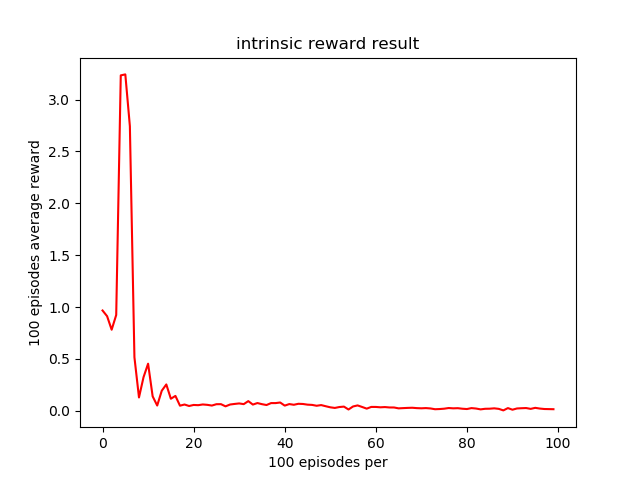
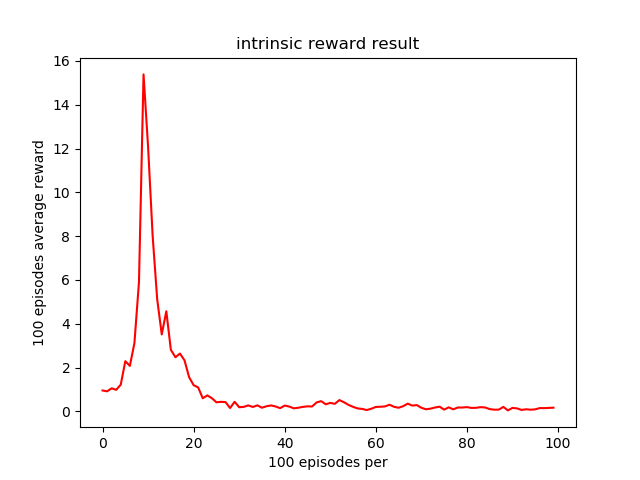
EDIT: fix wrong implementation, ADD: upload Next-state Prediction with RND

diff --git a/02 Next-State Prediction/PPO_Next-state_prediciton_with_RND.py b/02 Next-State Prediction/PPO_Next-state_prediciton_with_RND.py
@@ -49,7 +49,7 @@ class Critic_network(nn.Module):
 class Predictor_network(nn.Module):
     def __init__(self, obs_size):
         super(Predictor_network, self).__init__()
-        self.fc1 = nn.Linear(obs_size, 64) ## input obs_t+1
+        self.fc1 = nn.Linear(obs_size, 64) # input predictor: action + obs | target: next_obs
         self.fc2 = nn.Linear(64,64)
         self.fc3 = nn.Linear(64,64)
         self.fc4 = nn.Linear(64,1) ## output f(st+1)
@@ -112,15 +112,22 @@ def observation_normalize(observation, obs_std): # In order to normalize observa
     observation = (observation - obs_mean) / obs_std
     return observation
 
-def get_MSE(predictor, target_predictor, next_observation, obs_std):
+def get_MSE(predictor, target_predictor, observation, onehot_action, next_observation, obs_std):
     MSE = torch.nn.MSELoss() # define loss function.
+
+    obs = torch.Tensor(observation_normalize(observation, obs_std))
+    obs = torch.clamp(obs, -5, 5)
     next_obs = torch.Tensor(observation_normalize(next_observation, obs_std)) # normalize observation.
-    next_obs = torch.clamp(next_obs, -5, 5) 
-    f_prime = predictor(next_obs) # predictor
-    f = target_predictor(next_obs) # target predictor (fixed!)
+    next_obs = torch.clamp(next_obs, -5, 5)
+
+    obs_action = torch.cat((obs, onehot_action), -1)
+
+    f_prime = predictor(obs_action) # predictor | input is [obs, onehot_action]
+    f = target_predictor(next_obs) # target predictor (fixed!) | input is [next_obs]
+
     return MSE(f_prime, f.detach())
 
-def train(actor, critic, predictor, target_predictor, trajectories, actor_optimizer, critic_optimizer, predictor_optimizer, T_horizon, batch_size, epoch, obs_std):
+def train(actor, critic, predictor, target_predictor, trajectories, actor_optimizer, critic_optimizer, predictor_optimizer, T_horizon, batch_size, epoch, obs_std, action_size):
     
     c_1 = 1
     c_2 = 0.0 # entropy bonus is zero, because we are using RND which is exploration technique.
@@ -129,28 +136,30 @@ def train(actor, critic, predictor, target_predictor, trajectories, actor_optimi
     trajectories = np.array(trajectories) ##deque인 type을 np.array로 바꿔 줍니다.
     obs = np.vstack(trajectories[:, 0]) 
     action = list(trajectories[:, 1])
-    next_obs = np.vstack(trajectories[:, 2])
-    extrinsic_reward = list(trajectories[:, 3])
-    intrinsic_reward = list(trajectories[:, 4])
-    mask = list(trajectories[:, 5]) 
-    old_policy = np.vstack(trajectories[:, 6])
+    onehot_action = np.vstack(trajectories[:, 2])
+    next_obs = np.vstack(trajectories[:, 3])
+    extrinsic_reward = list(trajectories[:, 4])
+    intrinsic_reward = list(trajectories[:, 5])
+    mask = list(trajectories[:, 6])
+    old_policy = np.vstack(trajectories[:, 7])
     
     obs = torch.Tensor(obs)
     action = torch.LongTensor(action).unsqueeze(1)
+    onehot_action = torch.Tensor(onehot_action)
     next_obs = torch.Tensor(next_obs)
+    extrinsic_reward = torch.Tensor(extrinsic_reward)
+    intrinsic_reward = torch.Tensor(intrinsic_reward)
     mask = torch.Tensor(mask)
     old_policy = torch.Tensor(old_policy)
  
     """ update predictor """
-    predictor_loss = get_MSE(predictor, target_predictor, next_obs.numpy(), obs_std)
+    predictor_loss = get_MSE(predictor, target_predictor, obs.numpy(), onehot_action, next_obs.numpy(), obs_std)
     predictor_optimizer.zero_grad()
     predictor_loss.backward()
     predictor_optimizer.step()
 
     obs_std = torch.std(obs, 0).numpy()
 
-    extrinsic_reward = torch.Tensor(extrinsic_reward)
-    intrinsic_reward = torch.Tensor(intrinsic_reward)
     intrinsic_reward = intrinsic_reward / torch.std(intrinsic_reward) # normalize intrinsic reward.
       
     """ calculate Return and Advantage """
@@ -186,12 +195,12 @@ def train(actor, critic, predictor, target_predictor, trajectories, actor_optimi
             old_policy_b = old_policy[mini_batch].detach()
             
             Advantage_b = Advantage[mini_batch].unsqueeze(1)
-
+                        
             ratio, L_CPI, entropy = surrogate_loss(actor, old_policy_b, Advantage_b, obs_b, action_b)
 
             entropy = entropy.mean()
             clipped_surrogate = torch.clamp(ratio,1-eps,1+eps) * Advantage_b
-            actor_loss = -torch.min(L_CPI.mean(), clipped_surrogate.mean())
+            actor_loss = -torch.min(L_CPI.mean(),clipped_surrogate.mean())
 
             """ total loss """        
             L_CLIP= actor_loss + c_1 * critic_loss - c_2 * entropy
@@ -203,7 +212,7 @@ def train(actor, critic, predictor, target_predictor, trajectories, actor_optimi
             critic_optimizer.zero_grad()
             L_CLIP.backward() 
             critic_optimizer.step()
-        
+
     return obs_std
 
 
@@ -218,7 +227,7 @@ def main():
     action_size = 2
     actor = Actor_network(obs_size, action_size) ## actor 생성
     critic = Critic_network(obs_size) ## critic 생성
-    predictor = Predictor_network(obs_size) ## predictor 생성
+    predictor = Predictor_network(obs_size + action_size) ## predictor 생성
     target_predictor = Predictor_network(obs_size) ## target predictor 생성
 
     learning_rate = 0.0003
@@ -265,41 +274,42 @@ def main():
 
         for i in range(maximum_steps):
             #env.render() ## 게임을 실시간으로 실행하는 명령
-            
+
             action_distribution = actor(torch.Tensor(obs)) ##actor로 부터 action에 대한 softmax distribution을 얻는다.
             action = get_action(action_distribution) ## sampling action.
             old_policy = action_distribution[action] # 실제 선택된 action의 확률 값을 loss 계산을 위해 저장한다.
 
             next_obs, extrinsic_reward, done, info = env.step(action) ## 선택된 가장 높은 action이 다음 step에 들어감.
-            
-            intrinsic_reward = get_MSE(predictor, target_predictor, next_obs, obs_std).item() # || f'(st+1) - f(st+1) ||^2
-        
+            onehot_action = torch.zeros(action_size)
+            onehot_action[action] = 1.0
+
+            intrinsic_reward = get_MSE(predictor, target_predictor, obs, onehot_action, next_obs, obs_std).item() # || f'(st+1) - f(st+1) ||^2
+
             mask = 0 if done else 1 ## 게임이 종료됬으면, done이 1이면 mask = 0 생존유무 확인.
                 
-            trajectories.append((obs, action, next_obs, extrinsic_reward, intrinsic_reward, mask, old_policy.detach().numpy()))
+            trajectories.append((obs, action, onehot_action, next_obs, extrinsic_reward, intrinsic_reward, mask, old_policy.detach().numpy()))
             obs = next_obs # current observation을 next_observation으로 변경
-                
+            
             ex_score += extrinsic_reward # extrinsic_reward 갱신.
             in_score += intrinsic_reward # intrinsic_reward 갱신.
             step += 1
 
             if step % T_horizon == 0 and step != 0:
-                obs_std = train(actor, critic, predictor, target_predictor, trajectories, actor_optimizer, critic_optimizer, predictor_optimizer, T_horizon, batch_size, epoch, obs_std) ## 본격적인 학습을 위한 train 함수.
+                obs_std = train(actor, critic, predictor, target_predictor, trajectories, actor_optimizer, critic_optimizer, predictor_optimizer, T_horizon, batch_size, epoch, obs_std, action_size) ## 본격적인 학습을 위한 train 함수.
                 trajectories = deque() ## (s,a,r,done 상태) 를 저장하는 history or trajectories라고 부름. 학습을 위해 저장 되어지는 경험 메모리라고 보면됨.
                 
             if done: ## 죽었다면 게임 초기화를 위한 반복문 탈출
                 break
       
-            
         if epi % print_interval == 0 and epi != 0:
             save_ex_score.append(ex_score/print_interval) ## reward score 저장.
             save_in_score.append(in_score/print_interval)
-            print('episode: ',epi,' step: ', step, 'ex_score: ', ex_score/print_interval, 'in_score: ', in_score/print_interval) # log 출력.
+            print('episode: ', epi,' step: ', step, 'ex_score: ', ex_score/print_interval, 'in_score: ', in_score/print_interval) # log 출력.
             ex_score = 0
             in_score = 0
-            with open('RND_ex.p', 'wb') as file:
+            with open('NSP_RND_ex.p', 'wb') as file:
                 pickle.dump(save_ex_score, file)
-            with open('RND_in.p', 'wb') as file:
+            with open('NSP_RND_in.p', 'wb') as file:
                 pickle.dump(save_in_score, file)
         
     env.close() ## 모든 학습이 끝나면 env 종료.

diff --git a/02 Next-State Prediction/README.md b/02 Next-State Prediction/README.md
@@ -1,0 +1,15 @@
+# Next-State Predicition with RND.
+
+- - -
+
+## Overall Architecture
+![test result](https://github.com/LeejwUniverse/RL_Exploration_Pytorch/blob/master/)
+* reference OpenAI [blog](https://openai.com/blog/reinforcement-learning-with-prediction-based-rewards/)
+
+- - -
+
+## Extrinsic reward result
+![test result](https://github.com/LeejwUniverse/RL_Exploration_Pytorch/blob/master/)
+
+## Intrinsic reward result
+![test result](https://github.com/LeejwUniverse/RL_Exploration_Pytorch/blob/master/)

diff --git a/01 Random Network Distillation/README.md b/01 Random Network Distillation/README.md
@@ -1,4 +1,10 @@
-# Random Network Distillation result.
+# Random Network Distillation.
+
+- - -
+
+## Overall Architecture
+![test result](https://github.com/LeejwUniverse/RL_Exploration_Pytorch/blob/master/01%20Random%20Network%20Distillation/image/open_ai_image.png)
+* reference OpenAI [blog](https://openai.com/blog/reinforcement-learning-with-prediction-based-rewards/)
 
 - - -
 
